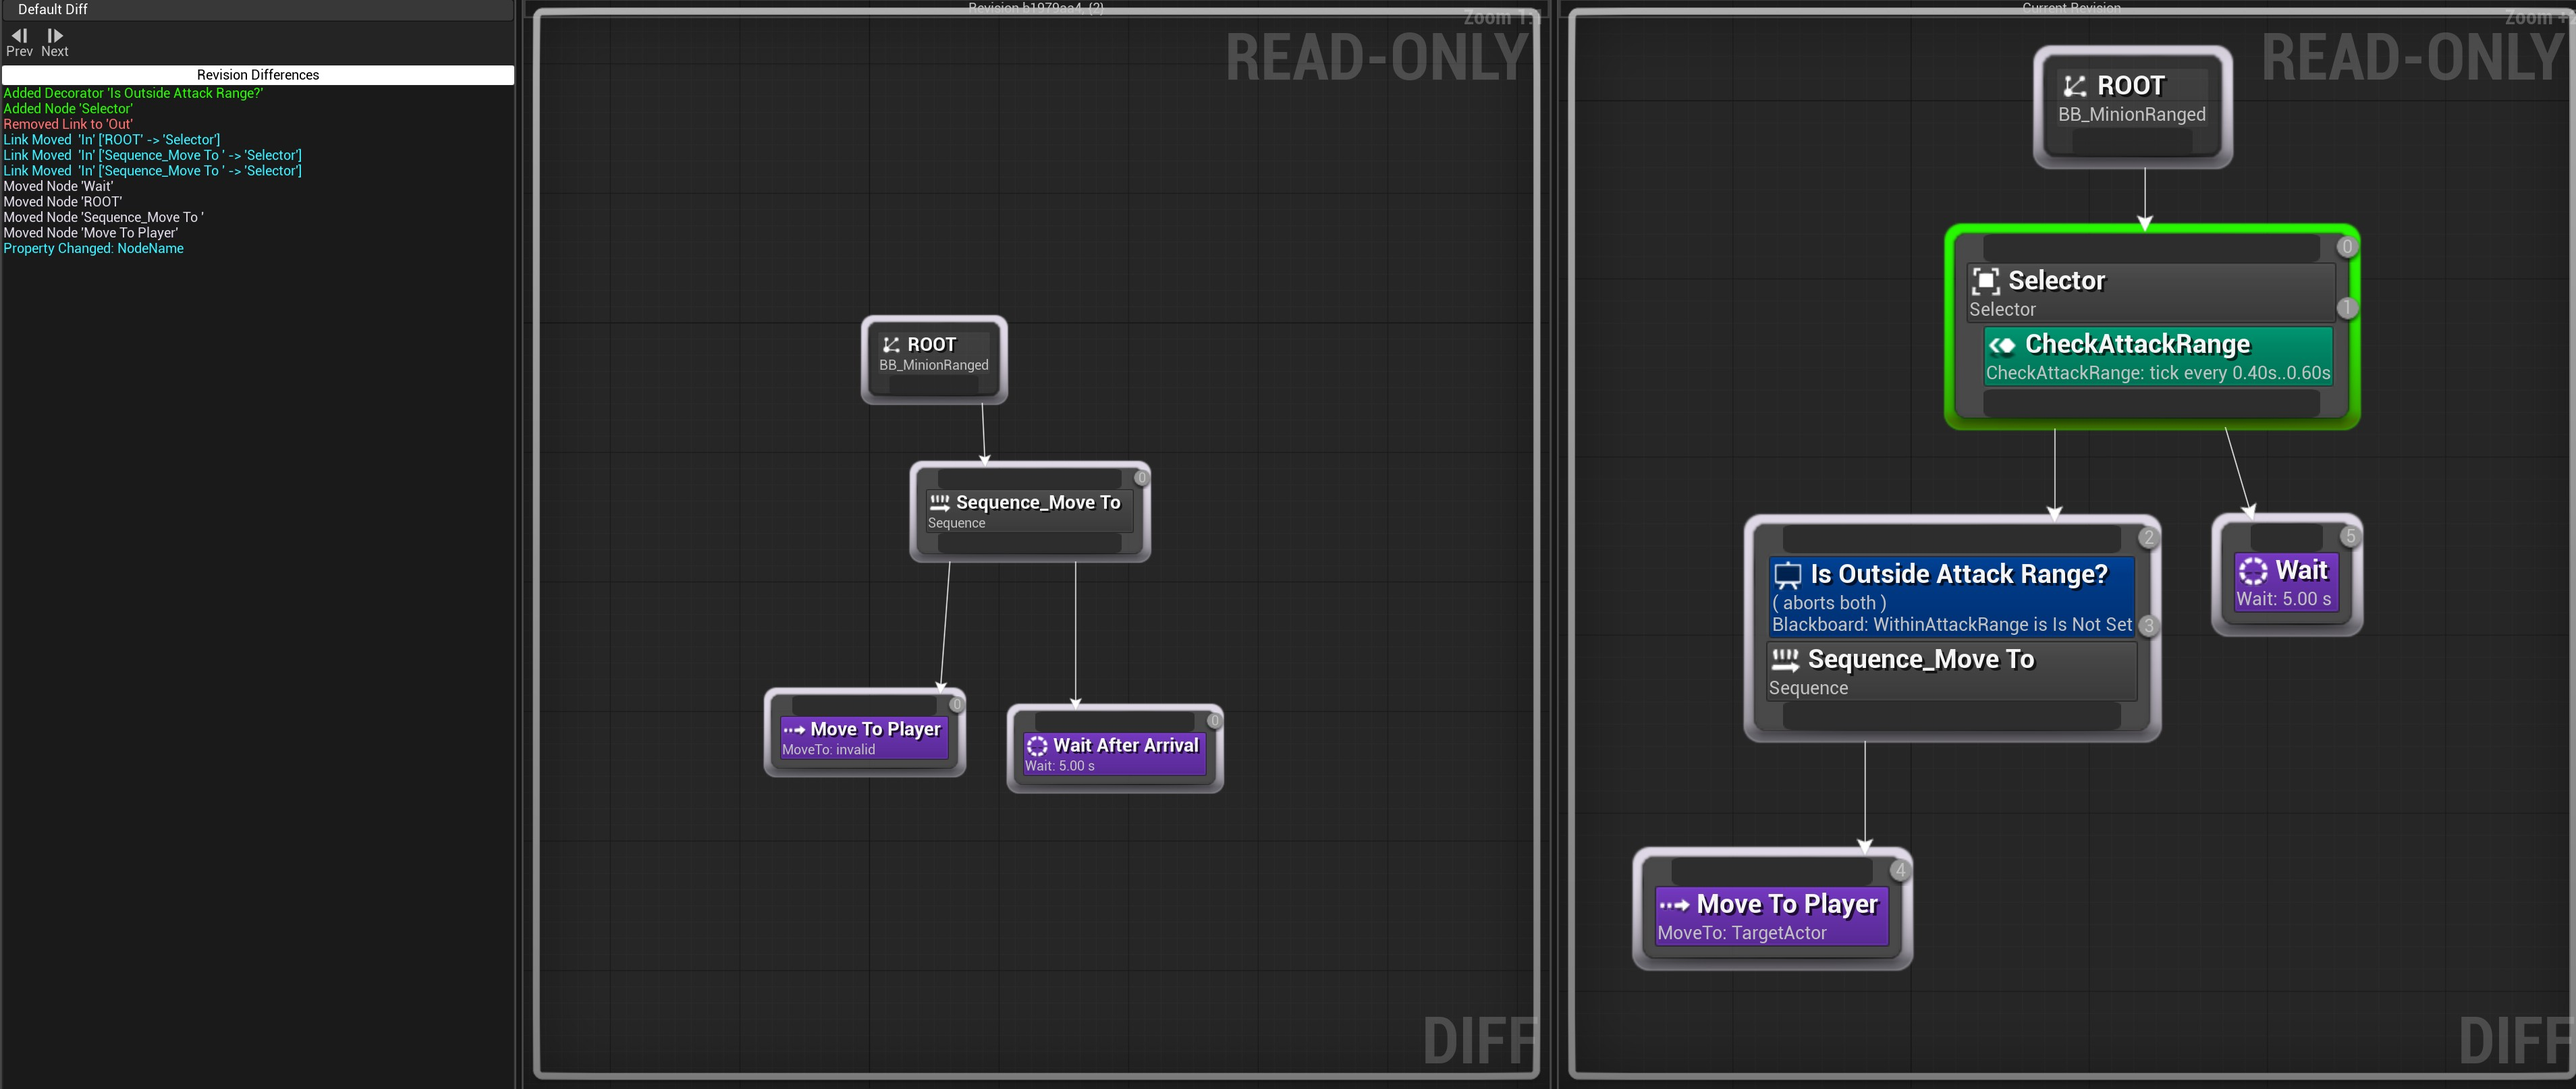
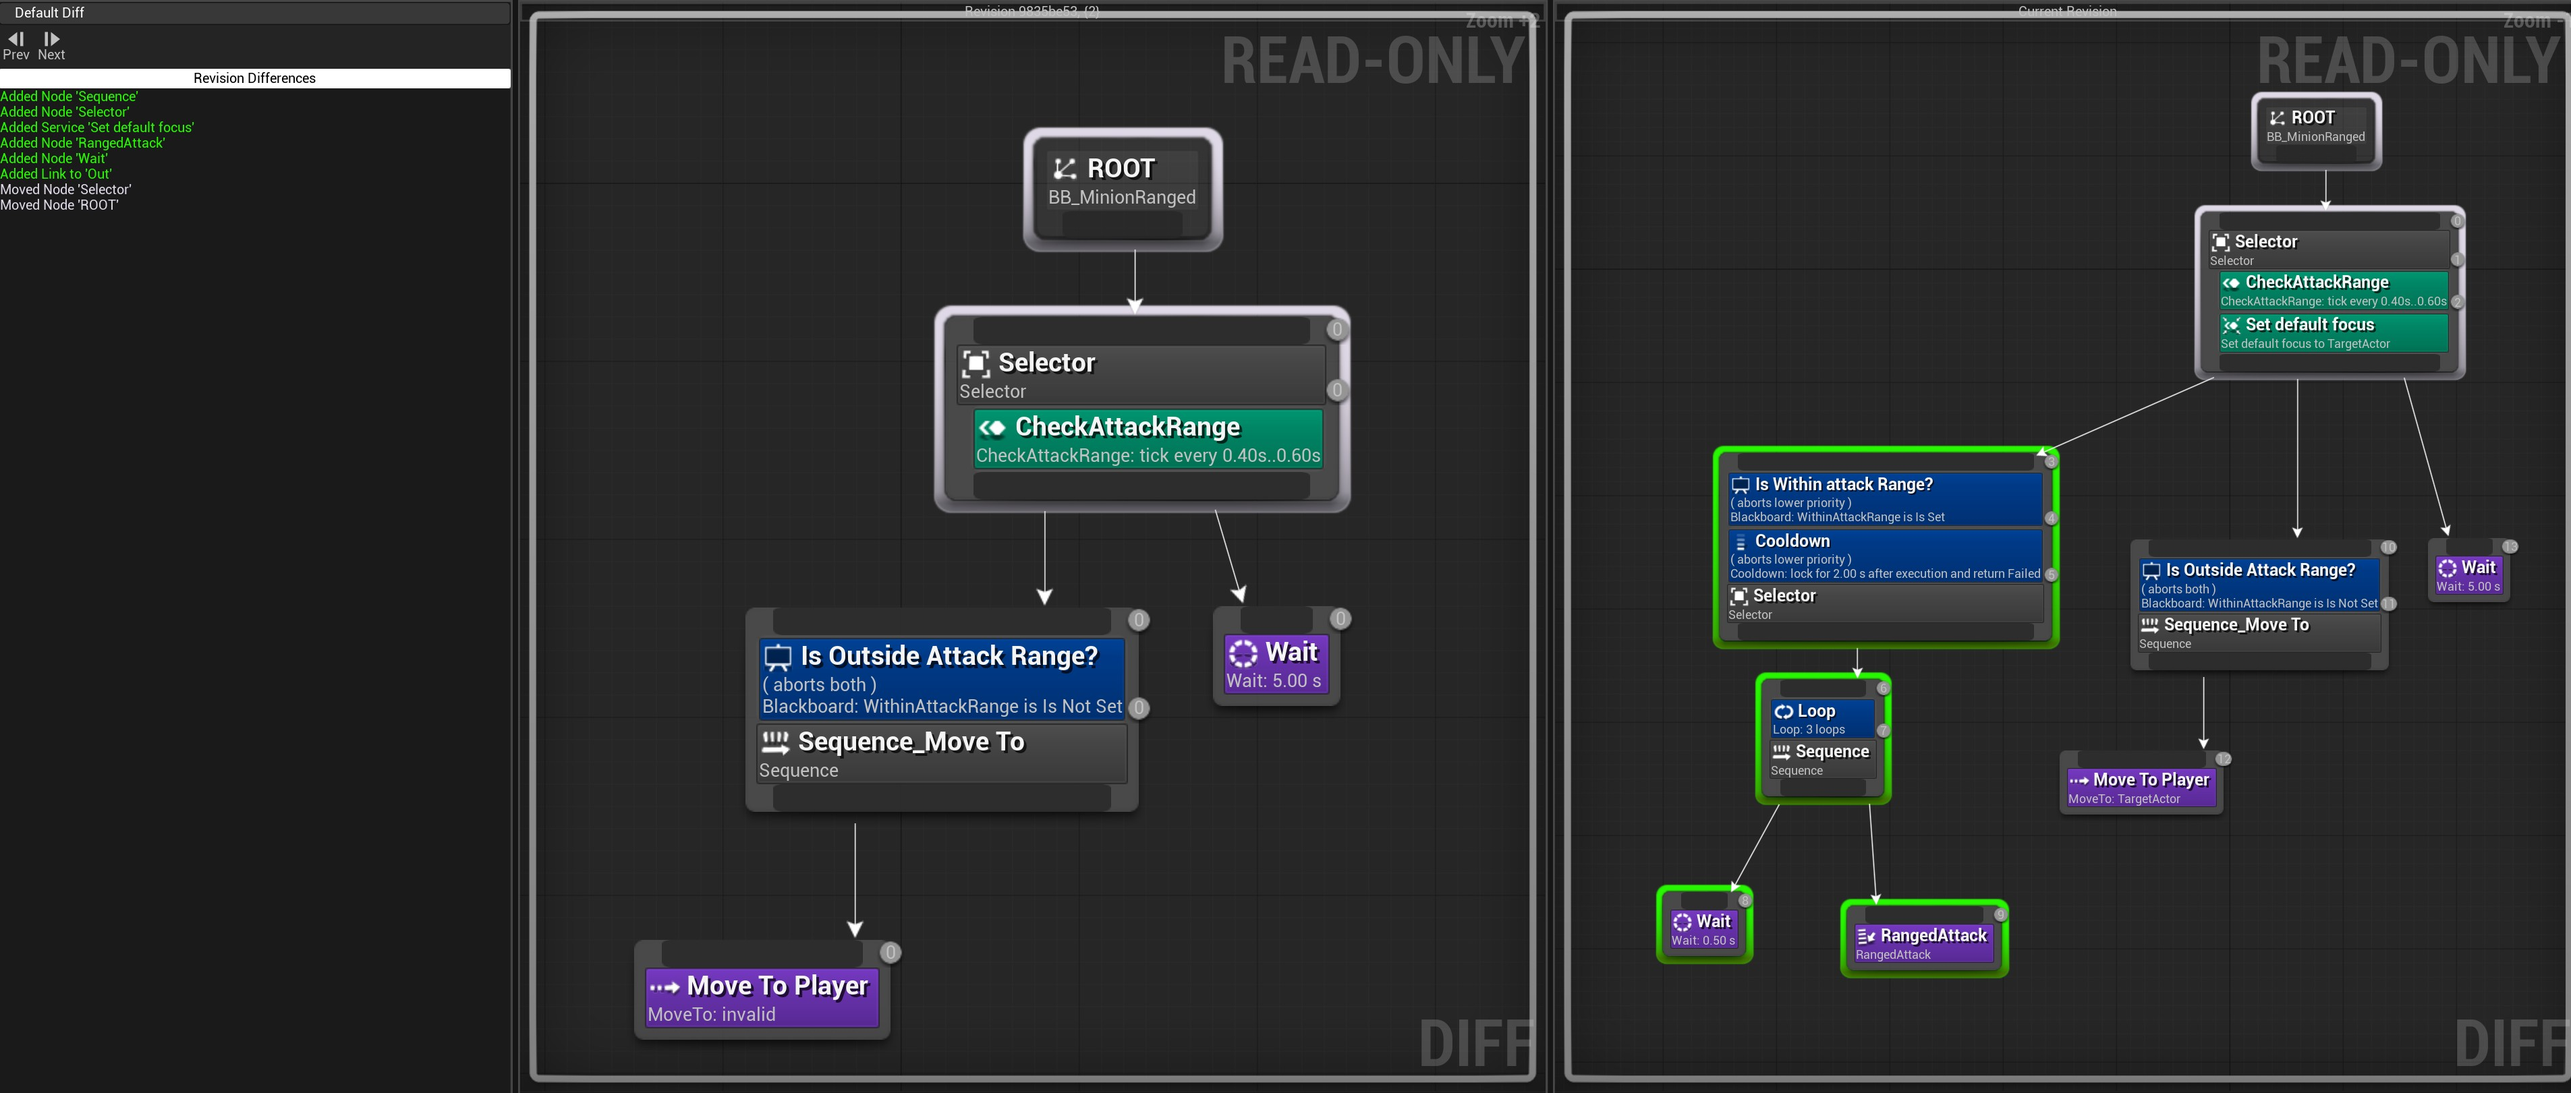
[Add] AI Bot attack

diff --git a/Source/TomLoomanCourse/Private/AI/SBBTTask_RangedAttack.cpp b/Source/TomLoomanCourse/Private/AI/SBBTTask_RangedAttack.cpp
@@ -1,0 +1,35 @@
+// Fill out your copyright notice in the Description page of Project Settings.
+
+
+#include "AI/SBBTTask_RangedAttack.h"
+
+#include "AIController.h"
+#include "SProjectileBase.h"
+#include "BehaviorTree/BlackboardComponent.h"
+#include "GameFramework/Character.h"
+
+EBTNodeResult::Type USBBTTask_RangedAttack::ExecuteTask(UBehaviorTreeComponent& OwnerComp, uint8* NodeMemory)
+{
+	AAIController* MyController = OwnerComp.GetAIOwner();
+	if (ensure(MyController))
+	{
+		ACharacter* MyPawn = Cast<ACharacter>(MyController->GetPawn());
+		if (!MyPawn) return EBTNodeResult::Failed;
+
+		FVector MuzzleLocation = MyPawn->GetMesh()->GetSocketLocation("Muzzle_01");
+
+		AActor* TargetActor = Cast<AActor>(OwnerComp.GetBlackboardComponent()->GetValueAsObject("TargetActor"));
+		if (!TargetActor) return EBTNodeResult::Failed;
+
+		FVector Direction = TargetActor->GetActorLocation() - MuzzleLocation;
+		FRotator MuzzleRotation = Direction.Rotation();
+
+		FActorSpawnParameters Params;
+		Params.SpawnCollisionHandlingOverride = ESpawnActorCollisionHandlingMethod::AlwaysSpawn;
+
+		AActor* NewProj = GetWorld()->SpawnActor<ASProjectileBase>(ProjectileClass, MuzzleLocation, MuzzleRotation);
+		
+		return NewProj? EBTNodeResult::Succeeded : EBTNodeResult::Failed;
+	}
+	return  EBTNodeResult::Failed;
+}

diff --git a/Source/TomLoomanCourse/Public/AI/SBBTTask_RangedAttack.h b/Source/TomLoomanCourse/Public/AI/SBBTTask_RangedAttack.h
@@ -1,0 +1,21 @@
+// Fill out your copyright notice in the Description page of Project Settings.
+
+#pragma once
+
+#include "CoreMinimal.h"
+#include "BehaviorTree/BTTaskNode.h"
+#include "SBBTTask_RangedAttack.generated.h"
+
+/**
+ * 
+ */
+UCLASS()
+class TOMLOOMANCOURSE_API USBBTTask_RangedAttack : public UBTTaskNode
+{
+	GENERATED_BODY()
+	virtual EBTNodeResult::Type ExecuteTask(UBehaviorTreeComponent& OwnerComp, uint8* NodeMemory) override;
+
+protected:
+	UPROPERTY(EditAnywhere, Category= "Config")
+	TSubclassOf<AActor> ProjectileClass;
+};
